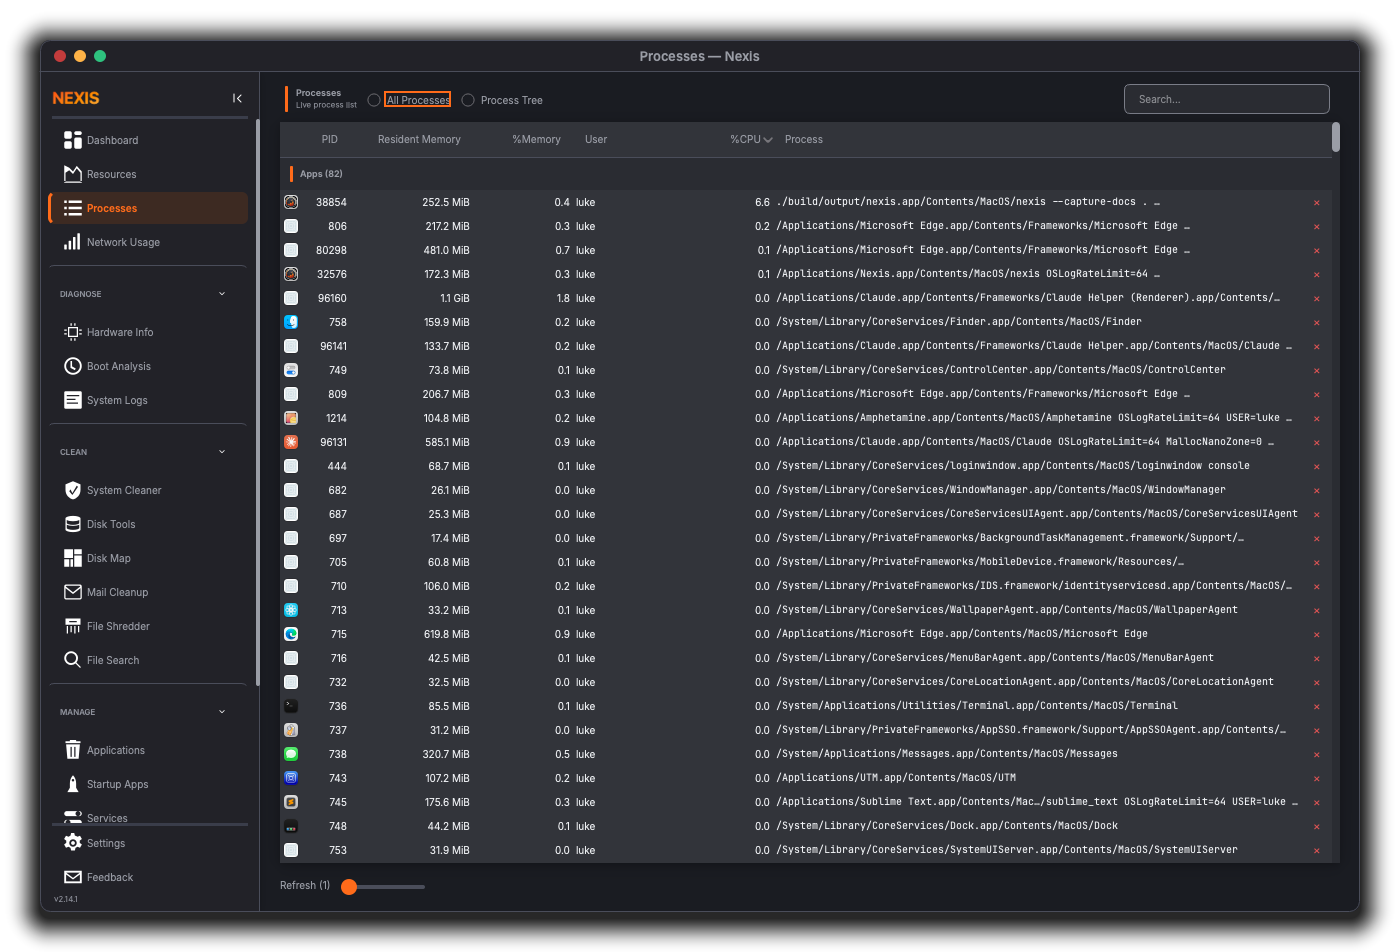
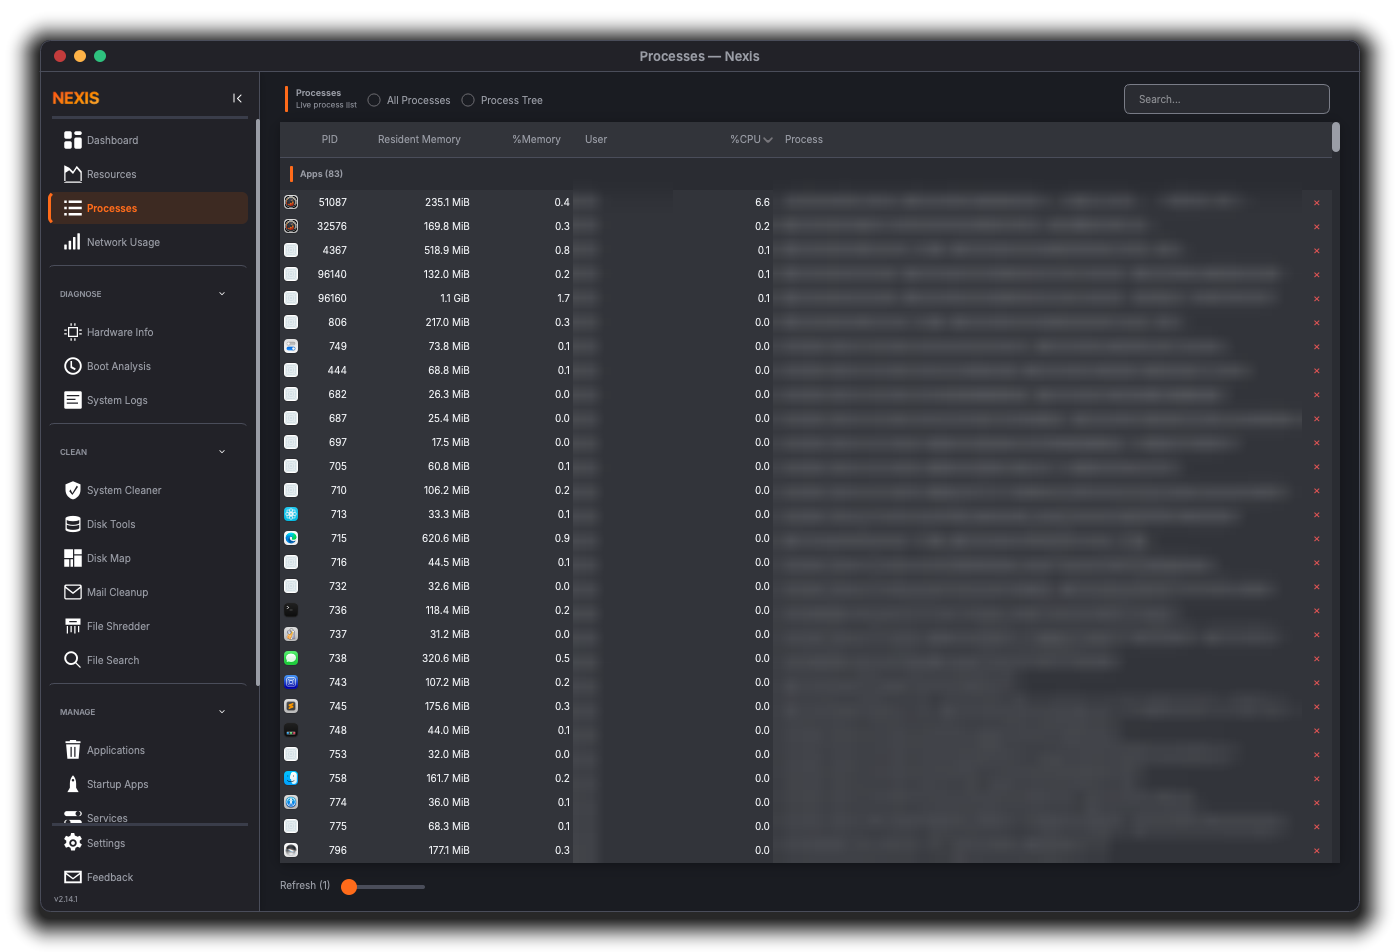
feat(docs): blur name columns in Processes, Boot Analysis, Docker, Hosts shots
Add a per-shot "blurColumns" list (item-view header labels): the runner
blurs the visible cells of each matching column in tables/trees on the
page. Add a "showColumn" step that unhides a hidden column by header.

Manifest: Processes (Name [Linux], User, Process), Boot Analysis
(Service), Docker (Image, Container, Volume, Mount Point) and Helpers ->
Hosts (Full Qualified, Aliases) are redacted on both platforms;
Nexis-04 now shows the GPU % / GPU VRAM columns its AppStream caption
promises. Tests enforce the redaction per page.

Recaptured guide/processes.png and guide/helpers-hosts.png on macOS.

diff --git a/shared/nexis/Common/doc_capture_runner.cpp b/shared/nexis/Common/doc_capture_runner.cpp
@@ -266,6 +266,17 @@ void DocCaptureRunner::runStep(const DocCaptureStep &step, std::function<void()>
         done();
         return;
     }
+    case T::ShowColumn: {
+        bool shown = false;
+        forEachColumn(step.text, [&shown](QAbstractItemView *, QHeaderView *header, int col) {
+            header->setSectionHidden(col, false);
+            shown = true;
+        }, /*includeHidden=*/true);
+        if (!shown)
+            fail(QStringLiteral("showColumn: no column \"%1\"").arg(step.text));
+        done();
+        return;
+    }
     case T::CloseDialog: {
         if (QWidget *dlg = findDialog(step.text))
             dlg->close();
@@ -296,6 +307,10 @@ void DocCaptureRunner::capture()
         const int blurred = blurWidgets(target, shot.blur, &image);
         if (!shot.blur.isEmpty() && blurred == 0)
             fail(QStringLiteral("blur: none of %1 visible").arg(shot.blur.join(", ")));
+        for (const QString &header : shot.blurColumns) {
+            if (blurColumn(target, header, &image) == 0)
+                fail(QStringLiteral("blurColumns: no visible column \"%1\"").arg(header));
+        }
         const bool fullScreen = target->isFullScreen();
         if (mOptions.frame && shot.frame && !fullScreen)
             image = DocCaptureFrame::decorate(image, title, frameStyle());
@@ -403,6 +418,50 @@ int DocCaptureRunner::blurWidgets(QWidget *window, const QStringList &names, QIm
             ++count;
         }
     }
+    return count;
+}
+
+void DocCaptureRunner::forEachColumn(const QString &label,
+                                     const std::function<void(QAbstractItemView*, QHeaderView*, int)> &fn,
+                                     bool includeHidden) const
+{
+    QWidget *scope = currentPage() ? currentPage() : mWindow;
+    for (QAbstractItemView *view : scope->findChildren<QAbstractItemView*>()) {
+        if (!view->isVisible() || !view->model())
+            continue;
+        QHeaderView *header = nullptr;
+        if (auto *tv = qobject_cast<QTreeView*>(view))
+            header = tv->header();
+        else if (auto *tab = qobject_cast<QTableView*>(view))
+            header = tab->horizontalHeader();
+        if (!header)
+            continue;
+        for (int c = 0; c < view->model()->columnCount(); ++c) {
+            const QString text = view->model()->headerData(c, Qt::Horizontal).toString().trimmed();
+            if (text.compare(label, Qt::CaseInsensitive) != 0)
+                continue;
+            if (!includeHidden && header->isSectionHidden(c))
+                continue;
+            fn(view, header, c);
+        }
+    }
+}
+
+int DocCaptureRunner::blurColumn(QWidget *window, const QString &label, QImage *image) const
+{
+    const qreal dpr = image->devicePixelRatio() > 0 ? image->devicePixelRatio() : 1.0;
+    int count = 0;
+    forEachColumn(label, [&](QAbstractItemView *view, QHeaderView *header, int col) {
+        QWidget *vp = view->viewport();
+        const QRect cells = QRect(header->sectionViewportPosition(col), 0,
+                                  header->sectionSize(col), vp->height()).intersected(vp->rect());
+        if (cells.isEmpty())
+            return;
+        const QRect inWindow(vp->mapTo(window, cells.topLeft()), cells.size());
+        DocCaptureFrame::blurRect(*image, QRect(qRound(inWindow.x() * dpr), qRound(inWindow.y() * dpr),
+                                                qRound(inWindow.width() * dpr), qRound(inWindow.height() * dpr)));
+        ++count;
+    }, /*includeHidden=*/false);
     return count;
 }
 

diff --git a/tests/utils/test_doc_capture_manifest.cpp b/tests/utils/test_doc_capture_manifest.cpp
@@ -4,6 +4,7 @@
 #include <QDirIterator>
 #include <QFile>
 #include <QRegularExpression>
+#include <QHash>
 #include <QSet>
 
 #include "Common/doc_capture_frame.h"
@@ -64,6 +65,8 @@ private slots:
         QTest::newRow("scroll out of range") << QByteArray(R"({"version":1,"shots":[{"file":"x.png","steps":[{"do":"scroll","position":2}]}]})") << "position";
         QTest::newRow("blur not array") << QByteArray(R"({"version":1,"shots":[{"file":"x.png","blur":"lblName"}]})") << "blur";
         QTest::newRow("blur empty name") << QByteArray(R"({"version":1,"shots":[{"file":"x.png","blur":[""]}]})") << "blur";
+        QTest::newRow("blurColumns not array") << QByteArray(R"({"version":1,"shots":[{"file":"x.png","blurColumns":"Name"}]})") << "blurColumns";
+        QTest::newRow("showColumn without text") << QByteArray(R"({"version":1,"shots":[{"file":"x.png","steps":[{"do":"showColumn"}]}]})") << "needs";
         QTest::newRow("duplicate for platform") << QByteArray(R"({"version":1,"shots":[{"file":"x.png"},{"file":"x.png","platforms":["linux"]}]})") << "listed twice";
     }
 
@@ -98,6 +101,41 @@ private slots:
                     QVERIFY2(s.blur.contains("lblServiceName") && s.blur.contains("lblServiceDescription"), qPrintable(s.file));
                 if (s.page == QLatin1String("startupApps"))
                     QVERIFY2(s.blur.contains("lblStartupAppName") && s.blur.contains("lblStartupAppPath"), qPrintable(s.file));
+            }
+        }
+    }
+
+    void parsesBlurColumnsAndShowColumn()
+    {
+        const QByteArray json = R"({"version":1,"shots":[{"file":"x.png","blurColumns":["Name","Process"],
+            "steps":[{"do":"showColumn","text":"GPU %"}]}]})";
+        QString error;
+        const auto shots = DocCaptureManifest::parse(json, "linux", &error);
+        QVERIFY2(error.isEmpty(), qPrintable(error));
+        QCOMPARE(shots.at(0).blurColumns, QStringList({"Name", "Process"}));
+        QCOMPARE(shots.at(0).steps.at(0).type, DocCaptureStep::Type::ShowColumn);
+        QCOMPARE(shots.at(0).steps.at(0).text, QStringLiteral("GPU %"));
+    }
+
+    // Tables that list machine-specific names (process commands and users,
+    // boot units, Docker images, hosts entries) must be redacted in every
+    // shot of those pages.
+    void bundledManifestBlursNameColumns()
+    {
+        const QHash<QString, QStringList> required = {
+            {"processes",    {"User", "Process"}},   // + "Name" on Linux (column is Linux-only)
+            {"bootAnalysis", {"Service"}},
+            {"docker",       {"Image", "Container", "Volume", "Mount Point"}},
+            {"helpers",      {"Full Qualified", "Aliases"}},
+        };
+        const QByteArray json = bundledManifest();
+        for (const char *platform : {"macos", "linux"}) {
+            QString error;
+            for (const DocCaptureShot &s : DocCaptureManifest::parse(json, QString::fromLatin1(platform), &error)) {
+                if (!required.contains(s.page))
+                    continue;
+                for (const QString &col : required.value(s.page))
+                    QVERIFY2(s.blurColumns.contains(col), qPrintable(s.file + " missing " + col));
             }
         }
     }

diff --git a/shared/nexis/Common/doc_capture_manifest.cpp b/shared/nexis/Common/doc_capture_manifest.cpp
@@ -24,6 +24,7 @@ const QHash<QString, DocCaptureStep::Type> &stepTypes()
         {"showPalette", DocCaptureStep::Type::ShowPalette},
         {"key",         DocCaptureStep::Type::Key},
         {"closeDialog", DocCaptureStep::Type::CloseDialog},
+        {"showColumn",  DocCaptureStep::Type::ShowColumn},
     };
     return kTypes;
 }
@@ -91,6 +92,7 @@ bool parseStep(const QJsonValue &value, DocCaptureStep *out, QString *why)
     case DocCaptureStep::Type::Sort:
     case DocCaptureStep::Type::Key:
     case DocCaptureStep::Type::CloseDialog:
+    case DocCaptureStep::Type::ShowColumn:
         if (s.text.isEmpty()) {
             *why = QStringLiteral("%1 needs \"text\"").arg(kind);
             return false;
@@ -205,6 +207,18 @@ QList<DocCaptureShot> parse(const QByteArray &json, const QString &platform, QSt
                 if (name.isEmpty())
                     return fail(QStringLiteral("shot %1: \"blur\" entries must be non-empty object names").arg(label));
                 shot.blur << name;
+            }
+        }
+
+        const QJsonValue blurCols = o.value("blurColumns");
+        if (!blurCols.isUndefined()) {
+            if (!blurCols.isArray())
+                return fail(QStringLiteral("shot %1: \"blurColumns\" must be an array of column headers").arg(label));
+            for (const QJsonValue &b : blurCols.toArray()) {
+                const QString header = b.toString();
+                if (header.isEmpty())
+                    return fail(QStringLiteral("shot %1: \"blurColumns\" entries must be non-empty headers").arg(label));
+                shot.blurColumns << header;
             }
         }
         shot.settle = o.value("settle").toDouble(1.5);

diff --git a/shared/nexis/Common/doc_capture_runner.h b/shared/nexis/Common/doc_capture_runner.h
@@ -12,6 +12,8 @@
 #include "doc_capture_manifest.h"
 
 class QWidget;
+class QAbstractItemView;
+class QHeaderView;
 
 // Drives a live App window through the documentation screenshot manifest
 // (`nexis --capture-docs <outdir>`): navigates to each page, runs the
@@ -50,6 +52,10 @@ private:
     QWidget *findDialog(const QString &title) const;
     QImage grabWithPopups(QWidget *window) const;
     int blurWidgets(QWidget *window, const QStringList &names, QImage *image) const;
+    int blurColumn(QWidget *window, const QString &label, QImage *image) const;
+    void forEachColumn(const QString &label,
+                       const std::function<void(QAbstractItemView*, QHeaderView*, int)> &fn,
+                       bool includeHidden) const;
     void fail(const QString &reason);
 
     QWidget *mWindow;

diff --git a/shared/nexis/Common/doc_capture_manifest.h b/shared/nexis/Common/doc_capture_manifest.h
@@ -31,6 +31,7 @@ struct DocCaptureStep
         ShowPalette,    // open the command palette
         Key,            // send key `text` (e.g. "Escape") to the focused window
         CloseDialog,    // close the top-level dialog whose title matches `text`
+        ShowColumn,     // unhide the item-view column whose header is `text`
     };
 
     Type type = Type::Wait;
@@ -52,6 +53,7 @@ struct DocCaptureShot
     QString dialog;          // non-empty: capture the top-level window with this title
     bool frame = true;       // draw window chrome + shadow around the capture
     QStringList blur;        // objectNames whose visible widgets are blurred (redaction)
+    QStringList blurColumns; // item-view header labels whose visible cells are blurred
 };
 
 namespace DocCaptureManifest {

diff --git a/docs/SCREENSHOTS.md b/docs/SCREENSHOTS.md
@@ -51,10 +51,11 @@ Captures come out at the display's pixel density: on a Retina or 200%-scaled dis
 
 - **Hostname.** The Dashboard system bar and Hardware Info show the machine's hostname. Use a machine
   or session whose hostname you're happy to publish.
-- **Live data.** Every name and path on the Services and Startup Apps pages is blurred automatically
-  (the manifest's `blur` lists), on both platforms. Processes, the Uninstaller and System Logs still
-  show what's actually on the machine; review those shots for usernames and private paths before
-  committing them. Disk Map scans `/Applications` on macOS and `/usr` on Linux, never your home
+- **Live data.** Machine-specific names are blurred automatically on both platforms: every name and
+  path on Services and Startup Apps (`blur`), and the name columns of Processes (Name, User, Process),
+  Boot Analysis (Service), Docker (Image, Container, Volume, Mount Point) and Helpers → Hosts (Full
+  Qualified, Aliases) (`blurColumns`). The Uninstaller, APT repositories and System Logs are not
+  blurred; review those shots before committing them. Disk Map scans `/Applications` on macOS and `/usr` on Linux, never your home
   folder.
 - **Linux specifics.** Run on Ubuntu 26.04 with GNOME (the reference platform). Docker must be running
   with at least one container for `docker.png` and `Nexis-12.png`. `Nexis-04.png` needs an NVIDIA or AMD
@@ -81,6 +82,7 @@ failed, re-run just that file with `--capture-only <name>.png`.
     "after": [ { "do": "click", "object": "btnAdvancePaneToggle" } ],
     "dialog": "",                                        // capture this window title instead
     "blur": ["lblServiceName"],                          // objectNames to blur (redaction)
+    "blurColumns": ["Process"],                          // item-view column headers to blur
     "frame": true }
 ] }
 ```
@@ -89,8 +91,9 @@ Steps: `click` (`object` = objectName, or `text` = button label), `setText` (lin
 combo), `wait` (`seconds`), `waitEnabled` (`object`, `seconds` timeout), `waitUptime` (wait until the
 app has run `seconds`), `scroll` (`position` 0–1 of the page's main scroll area), `expandTrees`, `sort`
 (`text` = column header, `order` asc/desc), `showPalette`, `key` (`text` = key sequence, e.g.
-`Escape`), `closeDialog` (`text` = window title). `blur` blurs every visible widget with the listed
-object names (clipped to what's on screen) before the frame is added; the shot fails if none are visible. Page ids are the `PageSlot` ids in `app.cpp`
+`Escape`), `closeDialog` (`text` = window title), `showColumn` (`text` = header of a hidden column). `blur` blurs every visible widget with the listed
+object names (clipped to what's on screen) before the frame is added; `blurColumns` blurs the visible
+cells of every table/tree column with that header. A shot fails if any blur target isn't visible. Page ids are the `PageSlot` ids in `app.cpp`
 (`dashboard`, `resources`, `processes`, `networkUsage`, `hardwareInfo`, `bootAnalysis`, `systemLogs`,
 `systemCleaner`, `diskTools`, `diskMap`, `mailCleanup`, `shredder`, `search`, `uninstaller`,
 `startupApps`, `services`, `aptSourceManager` (Homebrew on macOS), `docker`, `helpers`, `gnomeSettings`,
